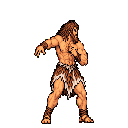
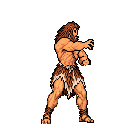
The hill giant in the first monster set throws its boulder with an outstretched arm instead of dropping it
Catalog art correction by Codex (MON2CHA.DAX:55 ranged action reuses the MON5CHA.DAX:55 action the user pointed to), exported to data/monsters.

diff --git a/dev_tools/CLAUDE_COMBAT_SPRITE_WORK.md b/dev_tools/CLAUDE_COMBAT_SPRITE_WORK.md
@@ -43,6 +43,24 @@ in melee. Report which sprite appeared. This check belongs with Claude because
 it exercises the game outside `dev_tools/`. Any game-code fix discovered by the
 check is a separate task requiring user authorization.
 
+## MON2 Hill Giant Boulder action correction
+
+The user identified `MON2CHA.DAX:55/item_000__ranged/action.png` as an incorrect
+drop pose and requested the throwing action used by `MON5CHA.DAX:55`. Codex's
+catalog art correction changes only the MON2 ranged action and its review
+metadata; the MON2 ready image and Club set remain unchanged. Codex will push
+this `dev_tools/` change on `codex/mon2-hill-boulder-throw`. Claude should bring
+that branch into an integration worktree, export `MON2CHA.DAX:55` using the source
+handoff's export script, verify that only
+`data/monsters/mon2cha_dax_55/item_000__ranged/action.png` changed, run the
+relevant export and game checks, and commit/push the integrated change to
+`main`. The corrected
+action SHA-256 is
[1 lines of base64/hex data omitted]
+Do not change `art_pending` for this correction. Keep
+`MON5CHA.DAX:55`'s separate regeneration flag until its own review and user
+approval are complete.
+
 ## Coordination boundary
 
 Codex can prepare and review art entirely in `dev_tools/`. Claude handles
